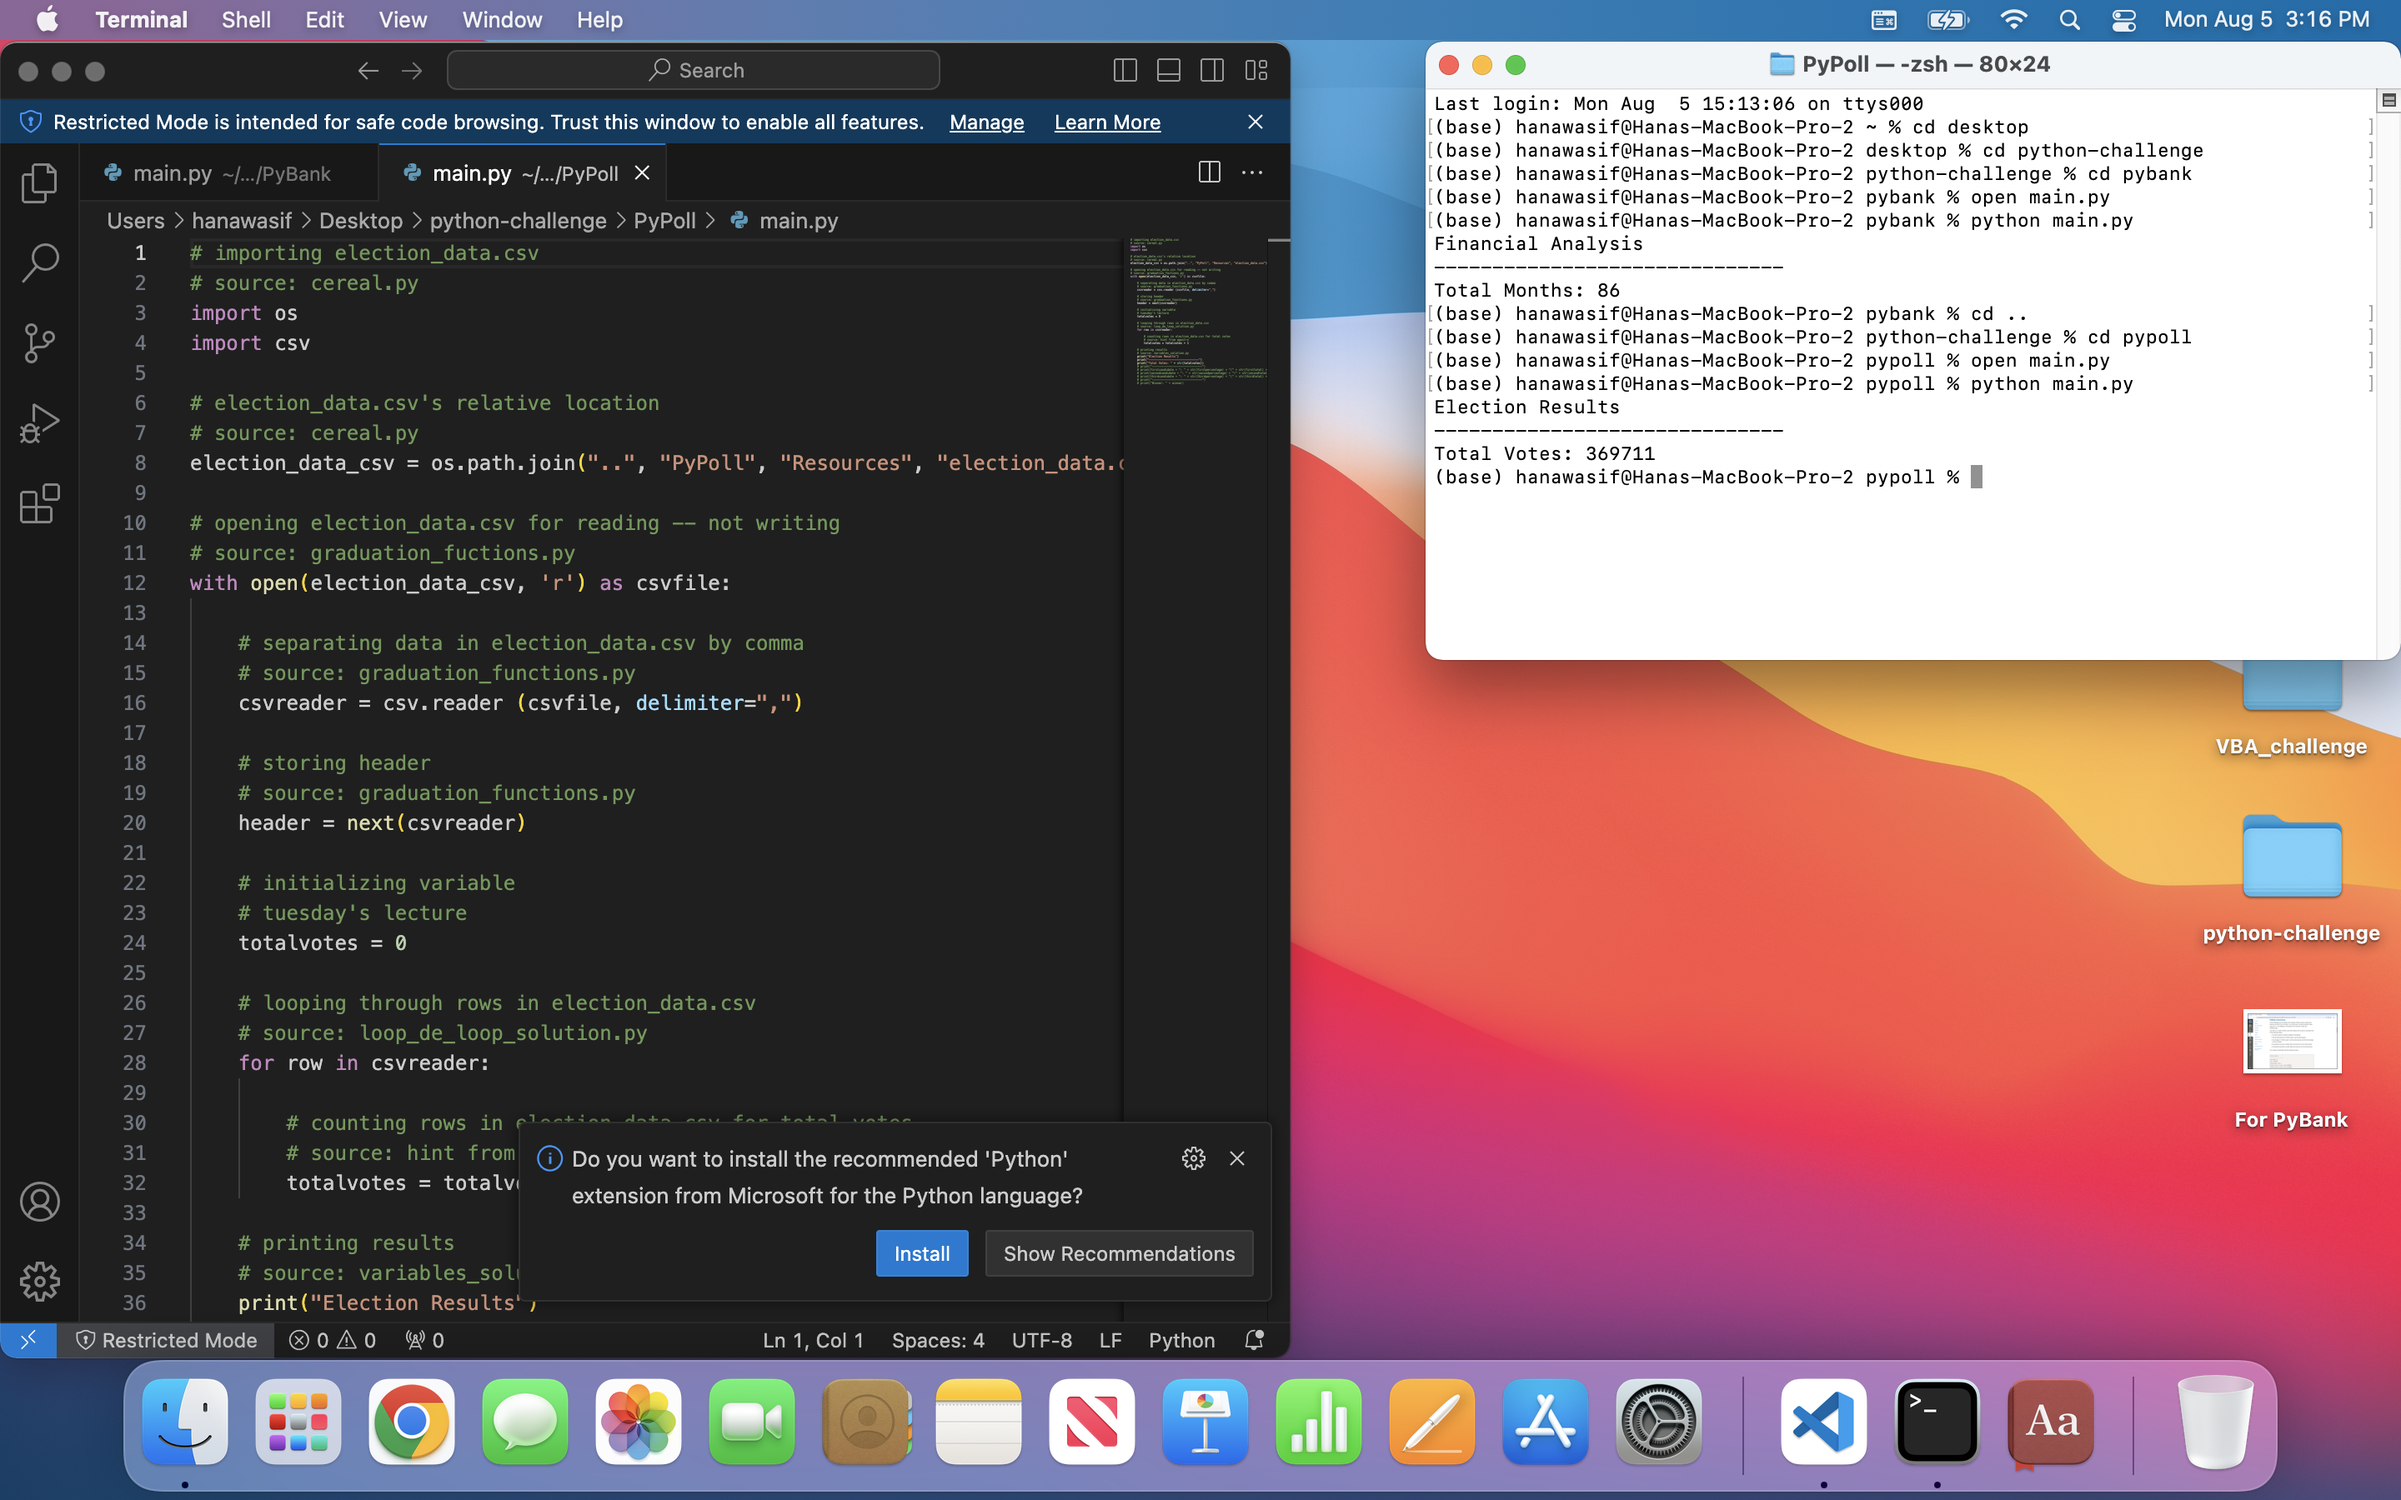
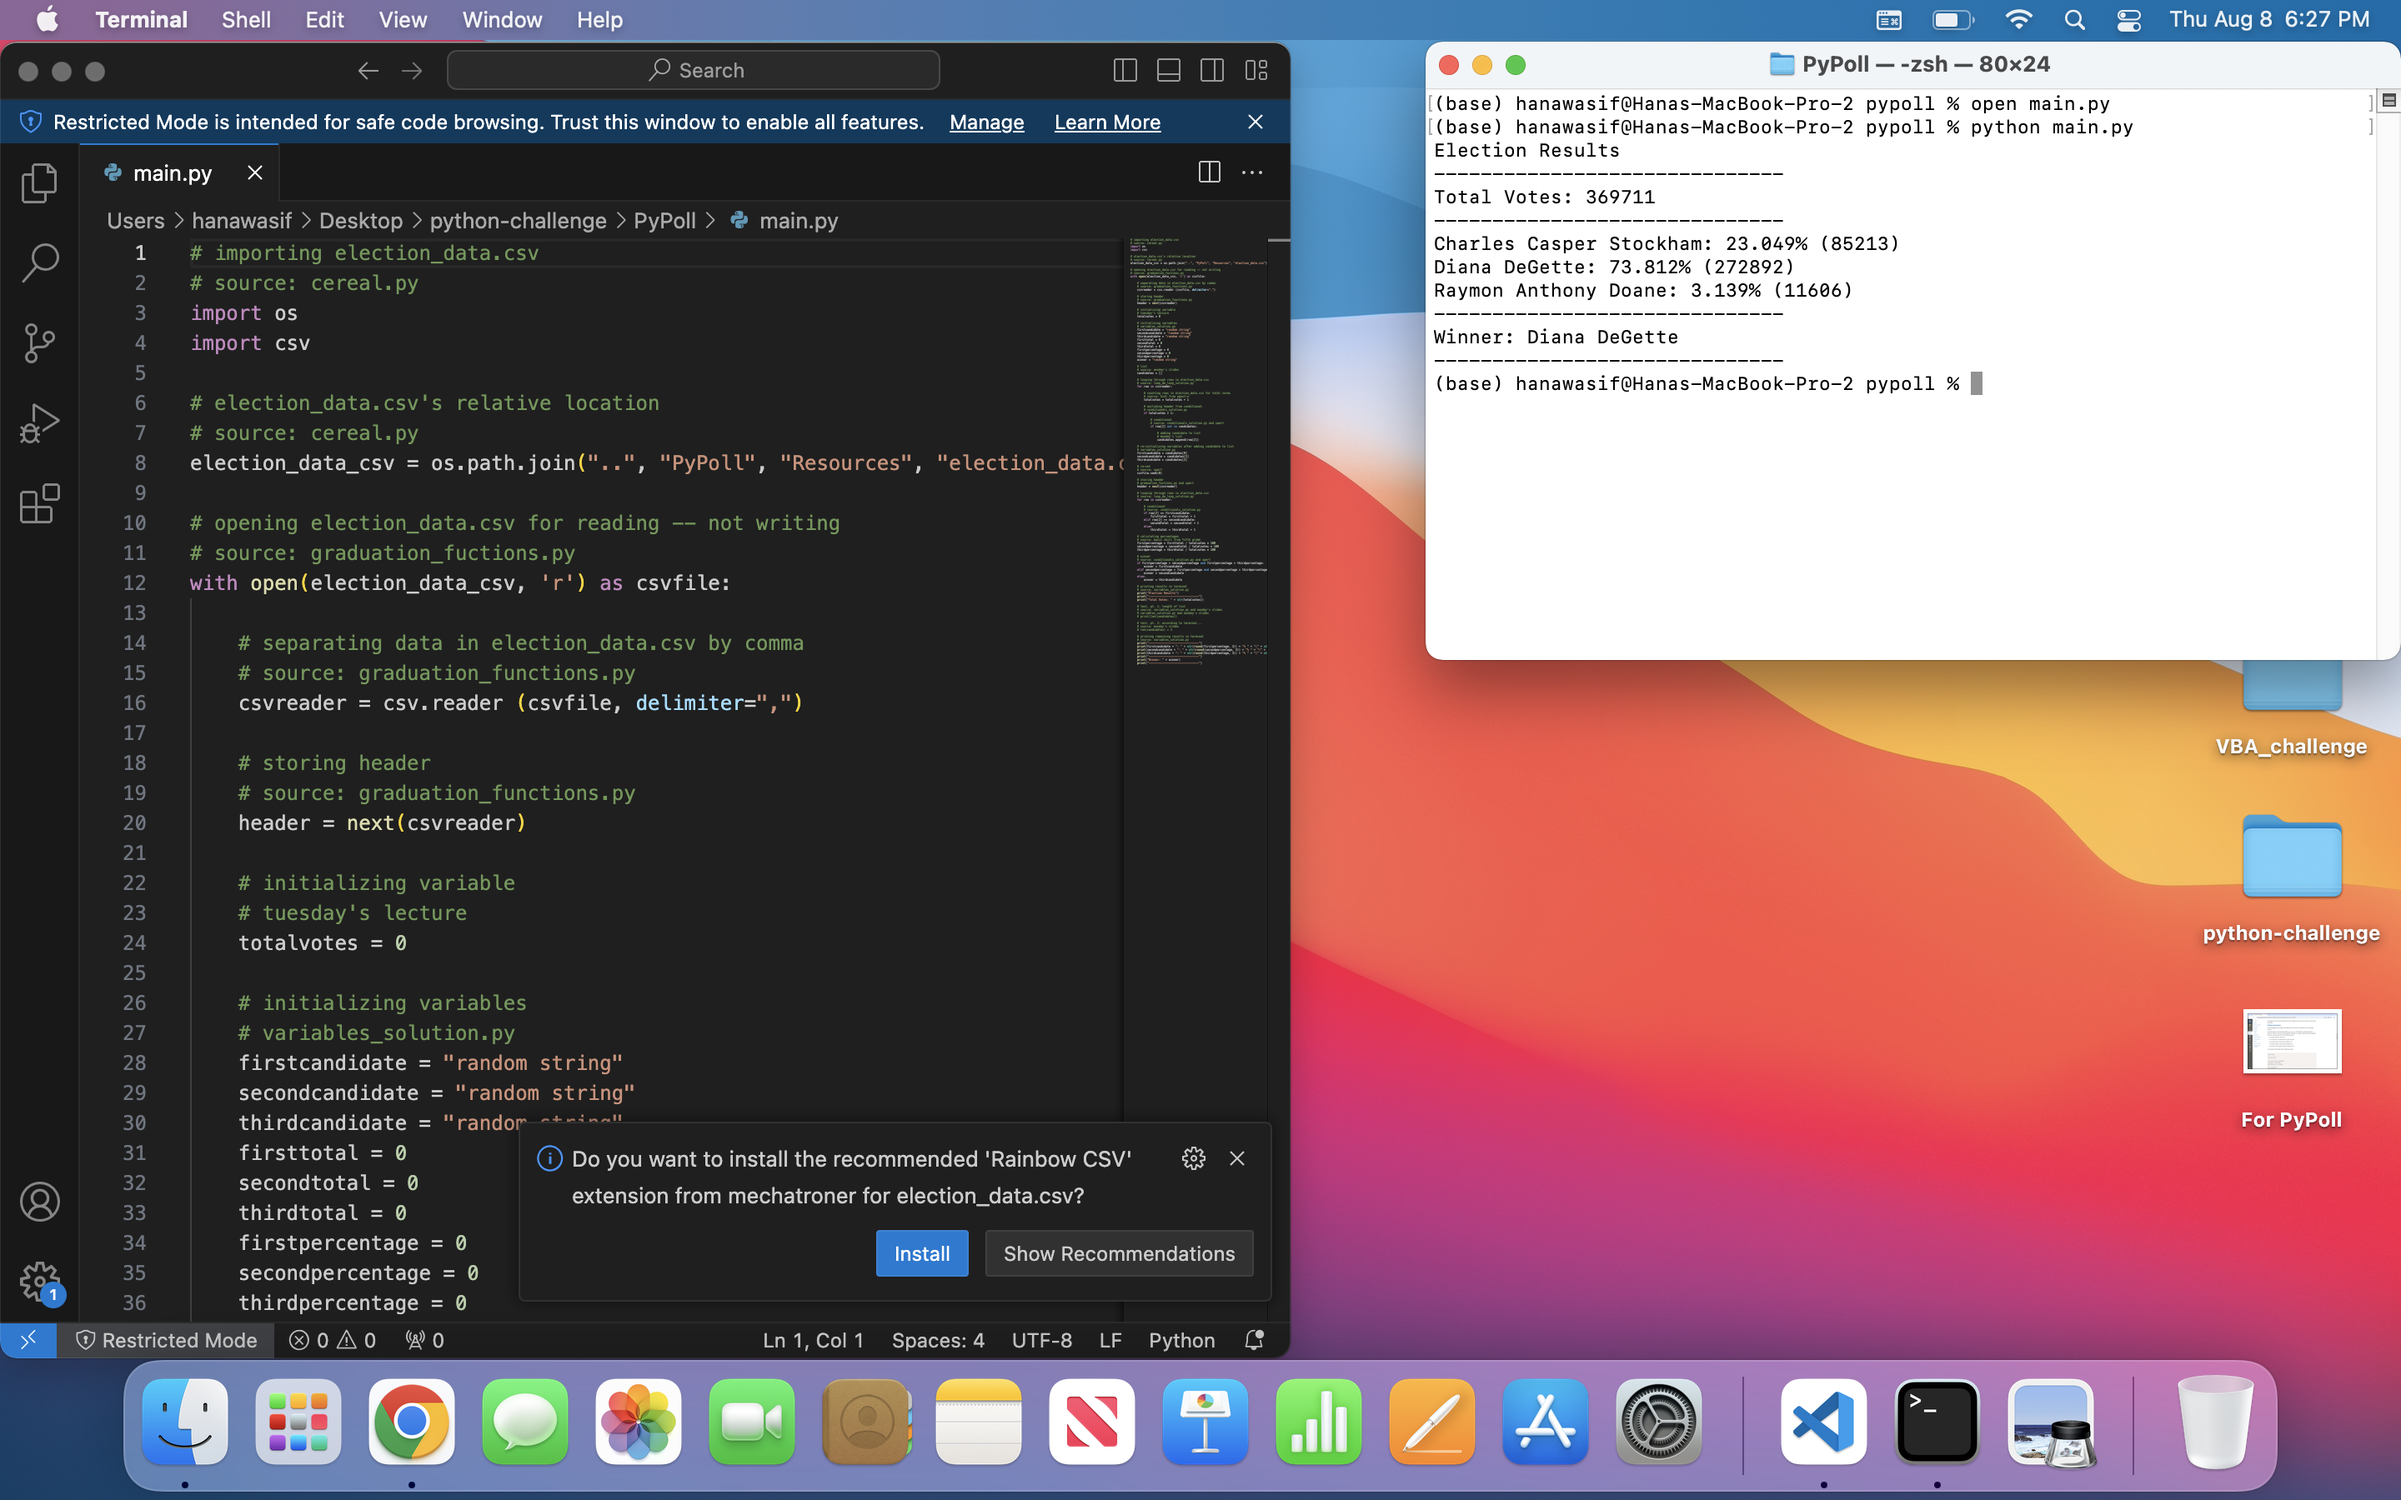
everything else

diff --git a/PyPoll/main.py b/PyPoll/main.py
@@ -23,6 +23,23 @@ with open(election_data_csv, 'r') as csvfile:
     # tuesday's lecture
     totalvotes = 0
 
+    # initializing variables
+    # variables_solution.py
+    firstcandidate = "random string"
+    secondcandidate = "random string"
+    thirdcandidate = "random string"
+    firsttotal = 0
+    secondtotal = 0
+    thirdtotal = 0
+    firstpercentage = 0
+    secondpercentage = 0
+    thirdpercentage = 0
+    winner = "random string"
+
+    # list
+    # source: monday's slides
+    candidates = []
+
     # looping through rows in election_data.csv
     # source: loop_de_loop_solution.py
     for row in csvreader:
@@ -31,14 +48,81 @@ with open(election_data_csv, 'r') as csvfile:
         # source: hint from agustín
         totalvotes = totalvotes + 1
 
-    # printing results
+        # excluding header from conditional
+        # conditionals_solution.py
+        if totalvotes > 1:
+
+            # conditional
+            # source: conditionals_solution.py and xpert
+            if row[2] not in candidates:
+                
+                # adding candidate to list
+                # monday's list
+                candidates.append(row[2])
+            
+    # re-initializing variables after adding candidate to list
+    # variables_solution.py
+    firstcandidate = candidates[0]
+    secondcandidate = candidates[1]
+    thirdcandidate = candidates[2]
+
+    # re-set
+    # source: xpert
+    csvfile.seek(0)
+
+    # storing header
+    # graduation_fuctions.py and xpert
+    header = next(csvreader)
+    
+    # looping through rows in election_data.csv
+    # source: loop_de_loop_solution.py
+    for row in csvreader:
+
+        # conditional
+        # source: conditionals_solution.py
+        if row[2] == firstcandidate:
+            firsttotal = firsttotal + 1
+        elif row[2] == secondcandidate:
+            secondtotal = secondtotal + 1
+        else:
+            thirdtotal = thirdtotal + 1
+    
+    # calculating percentages
+    # source: basic skill from fifth grade
+    firstpercentage = firsttotal / totalvotes * 100
+    secondpercentage = secondtotal / totalvotes * 100
+    thirdpercentage = thirdtotal / totalvotes * 100
+
+    # winner
+    # source: conditionals_solution.py and xpert
+    if firstpercentage > secondpercentage and firstpercentage > thirdpercentage:
+        winner = firstcandidate
+    elif secondpercentage > firstpercentage and secondpercentage > thirdpercentage:
+        winner = secondcandidate
+    else:
+        winner = thirdcandidate
+
+    # printing results in terminal
     # source: variables_solution.py
     print("Election Results")
     print("------------------------------")
     print("Total Votes: " + str(totalvotes))
-    # print("------------------------------")
-    # print(firstcandidate + ": " + str(firstpercentage) + "(" + str(firsttotal) + ")")
-    # print(secondcandidate + ": " + str(secondpercentage) + "(" + str(secondtotal) + ")")
-    # print(thirdcandidate + ": " + str(thirdpercentage) + "(" + str(thirdtotal) + ")")
-    # print("------------------------------")
-    # print("Winner: " + winner)
+
+    # test, pt. 1: length of list
+    # source: variables_solution.py and monday's slides
+    # variables_solution.py and monday's slides
+    # print(len(candidates))
+
+    # test, pt. 2: according to terminal...
+    # source: monday's slides
+    # len(candidates) = 3
+
+    # printing remaining results in terminal
+    # source: variables_solution.py
+    print("------------------------------")
+    print(firstcandidate + ": " + str(round(firstpercentage, 3)) + "% " + "(" + str(firsttotal) + ")")
+    print(secondcandidate + ": " + str(round(secondpercentage, 3)) + "% " + "(" + str(secondtotal) + ")")
+    print(thirdcandidate + ": " + str(round(thirdpercentage, 3)) + "% " + "(" + str(thirdtotal) + ")")
+    print("------------------------------")
+    print("Winner: " + winner)
+    print("------------------------------")

diff --git a/PyBank/main.py b/PyBank/main.py
@@ -36,11 +36,11 @@ with open(budget_data_csv, 'r') as csvfile:
     # source: xpert
     dateforgiip = "random string"
 
-    #initiating variable assigned to highest integer
-    # source: 
+    # initiating variable assigned to highest integer
+    # source: teaching assistant's solution
     gdip = 1000000000
 
-    #initiating variable
+    # initiating variable
     # source: xpert
     dateforgdip = "random string"
 
@@ -60,7 +60,7 @@ with open(budget_data_csv, 'r') as csvfile:
         # xpert
         total = total + int(row[1])
 
-        # excluding first row from conditional
+        # excluding header from conditional
         # xpert
         if totalmonths > 1:
 
